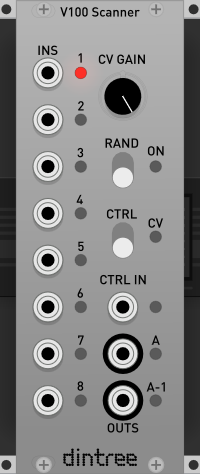
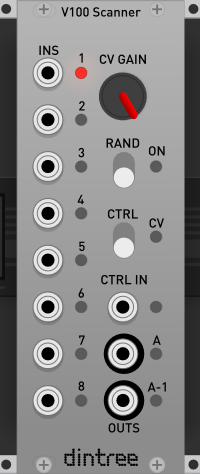
Added custom knob and updated image.

diff --git a/src/V100-Scanner.cpp b/src/V100-Scanner.cpp
@@ -219,7 +219,8 @@ struct V100_ScannerWidget : ModuleWidget {
 		addChild(createWidget<ScrewSilver>(Vec(RACK_GRID_WIDTH, RACK_GRID_HEIGHT - RACK_GRID_WIDTH)));
 		addChild(createWidget<ScrewSilver>(Vec(box.size.x - 2 * RACK_GRID_WIDTH, RACK_GRID_HEIGHT - RACK_GRID_WIDTH)));
 
-		addParam(createParamCentered<RoundBlackKnob>(mm2px(Vec(29.058, 26.163)), module, V100_Scanner::CV_GAIN));
+//		addParam(createParamCentered<RoundBlackKnob>(mm2px(Vec(29.058, 26.163)), module, V100_Scanner::CV_GAIN));
+        addParam(createParamCentered<DintreeKnobBlackRed>(mm2px(Vec(29.058, 26.163)), module, V100_Scanner::CV_GAIN));
 
 		addInput(createInputCentered<PJ301MPort>(mm2px(Vec(8.745, 19.792)), module, V100_Scanner::IN1));
 		addInput(createInputCentered<PJ301MPort>(mm2px(Vec(8.745, 32.492)), module, V100_Scanner::IN2));

diff --git a/src/components/DintreeComponents.hpp b/src/components/DintreeComponents.hpp
@@ -30,9 +30,18 @@ using namespace rack;
 
 // SPDT switch
 struct DintreeToggleSPDT : SvgSwitch {
-    DintreeToggleSPDT()
-    {
+    DintreeToggleSPDT() {
         addFrame(APP->window->loadSvg(asset::plugin(pluginInstance, "res/components/toggle-down.svg")));
         addFrame(APP->window->loadSvg(asset::plugin(pluginInstance, "res/components/toggle-up.svg")));
+    }
+};
+
+// black knob with red
+struct DintreeKnobBlackRed : app::SvgKnob {
+    DintreeKnobBlackRed() {
+        minAngle = -0.8334 * M_PI;
+        maxAngle = 0.8334 * M_PI;
+        shadow->opacity = 0;
+        setSvg(APP->window->loadSvg(asset::plugin(pluginInstance, "res/components/knob-black_red.svg")));
     }
 };
